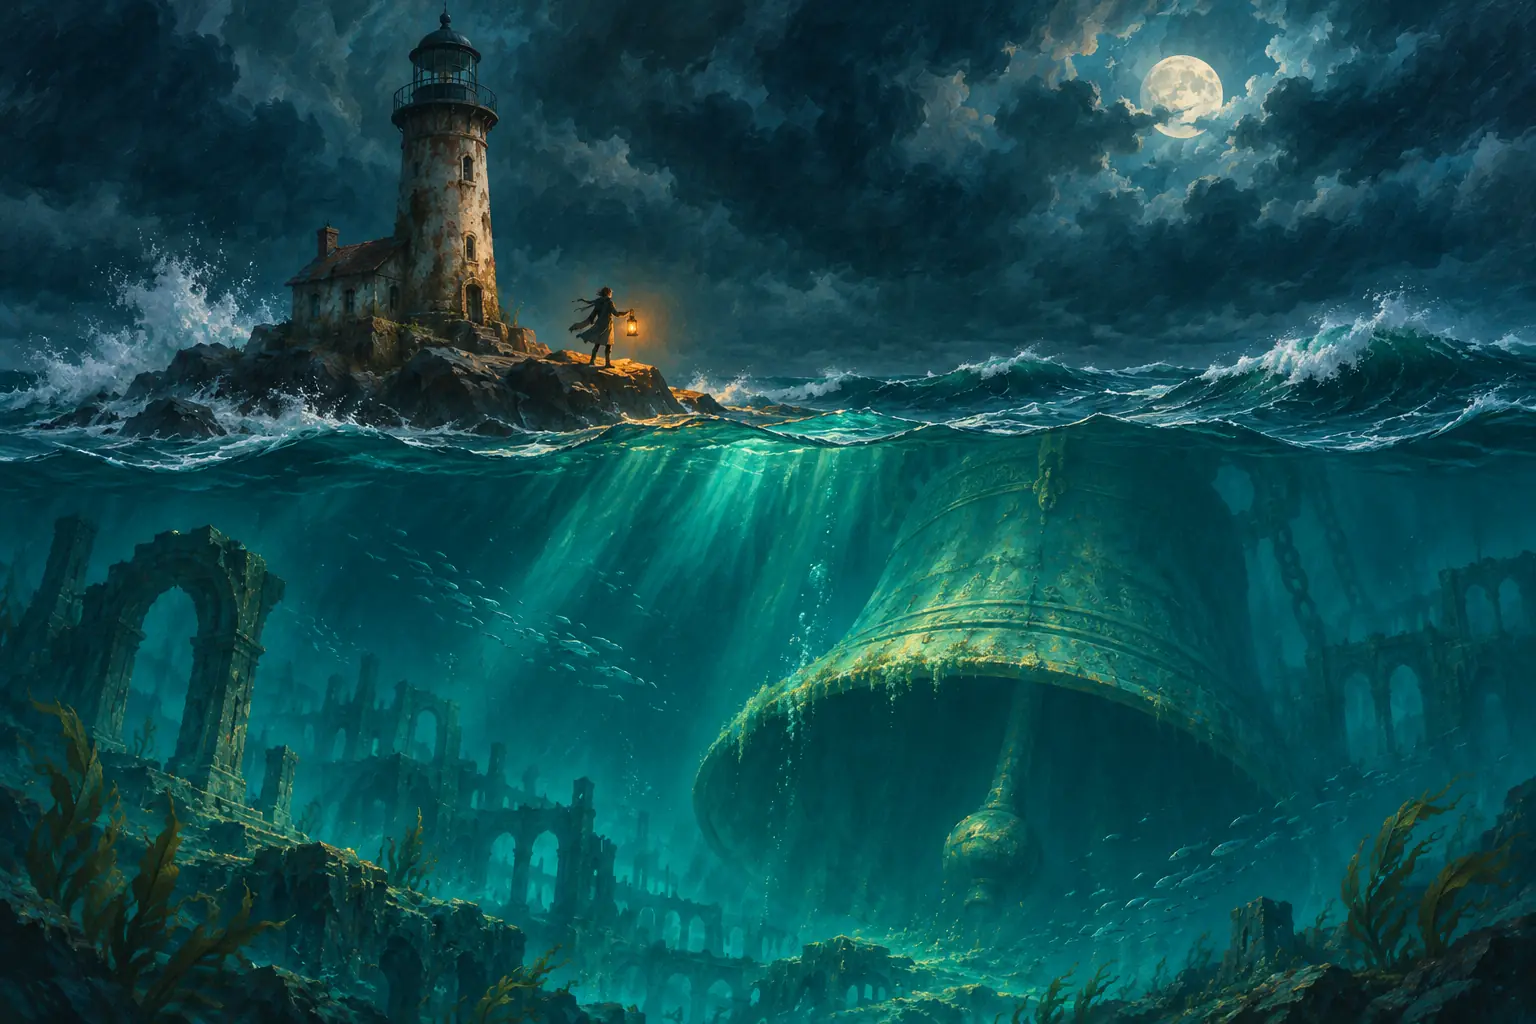
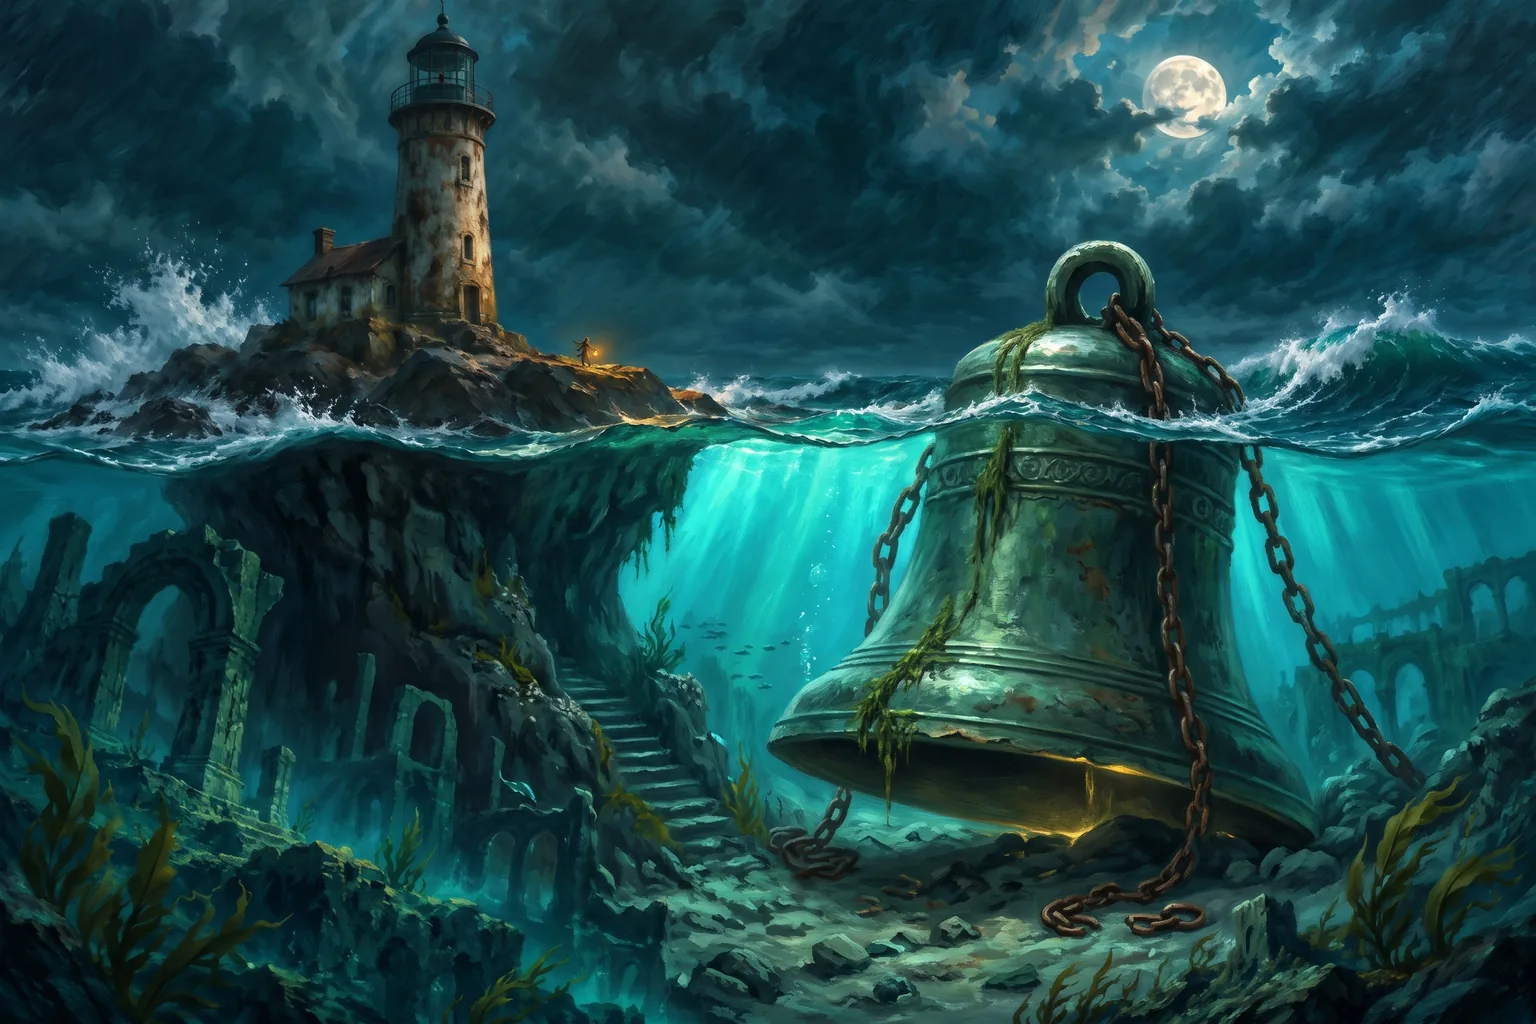
v0.37.1: a new title picture (the user's Gemini picture: the lighthouse on its rock, the stair down the rock under the sea, the great bell on the seabed with broken chains), and lit, a Codex edit with two opposite beams; credits and README name Gemini for it; the day's candidates noted in GAME_NOTES

diff --git a/js/version.js b/js/version.js
@@ -9,6 +9,7 @@
   BL.CHANGELOG = [
     { v: '0.37.1', date: '2026-11-16', items: [
       'The lighthouse stands on its own rock off Saltmere\'s harbour, as on the title screen. The opening\'s first picture is redrawn to show it, and its words say so.',
+      'A new title picture: the lighthouse on its rock, the stair down the rock under the sea, and the great bell on the seabed with its broken chains. Once the Heart is home, the lighthouse throws two beams.',
       'On a phone the title screen shows the lighthouse and the keeper. Before, it showed only the middle of the sea.',
     ] },
     { v: '0.37.0', date: '2026-11-16', items: [
@@ -314,9 +315,9 @@
     ] },
     { head: 'Made with', lines: [
       'Claude Code (Anthropic): the code, the rules, the story text, the music score, the sound effects, and the words and prompts for the songs.',
-      'Google Gemini: the songs, generated from those words and prompts.',
+      'Google Gemini: the songs, generated from those words and prompts, and the title picture.',
       'Grok (xAI, in the Cursor agent CLI), and Terra and Sol (OpenAI, in Codex): discussions of the world and its lore.',
-      'Codex (OpenAI): the pictures, which were then cropped, cleaned and recoloured.',
+      'Codex (OpenAI): the other pictures, which were then cropped, cleaned and recoloured, and the lit title picture, an edit of Gemini\'s.',
     ] },
     { head: 'Music', lines: [
       'The score is played by [musicbox](https://a403.space/musicbox/), a fork of [Scrimshaw Jukebox](https://tools.simonwillison.net/scrimshaw-jukebox) by Simon Willison. Its synthesizer comes from Scrimshaw, and the score is plain text in Scrimshaw\'s format. Apache License 2.0.',

diff --git a/README.md b/README.md
@@ -198,6 +198,6 @@ Sound effects and most of the music are synthesized at runtime with the Web Audi
 - Songs generated with Google Gemini (`music/songs/`) play in place of the score in Barnaby's shop (his two songs take turns, one each visit) and against the Harbour Hermit and the Drowned Bellwether (both its phases), and the Harbour Hermit has two: The Hermit's Heavy Toll at your first meeting, Ring for the Deep at your second, and one of the two at random after that, each for the whole fight; when one ends, it fades out slowly over its last 8 seconds and starts again from the top, fading in over 4 (the title screen goes on to its next song instead). The title screen plays its songs that are open in the Jukebox in turn, round and round: The Great Light Turning Slow, Harbour Bells at Dawn, The Hermit's Heavy Toll, Tide Swings Its Tongue and It Went Dark on My Watch, all from the start. Each page load starts on one of them at random (The Great Light Turning Slow until it has been heard once). High Tide Departure plays only in the Jukebox. While a song plays, the title screen shows its name at the top left, and tapping it opens the Jukebox. On the way down, a short note names each song as it starts. What you have heard is kept with the rest of your progress.
 - The sound effects are in `js/sfx.js`, and `sound/lab.html` plays each one. Sounds echo longer and are more muffled the deeper Wren goes. Each place has its own sounds every few seconds: gulls and a bell buoy in the Shallows, drips in Dark Water, bubbles and the bell's hum in the Belfry. They come less often in a fight and not at all in a pin.
 
-The illustrations were generated for this project with Codex (OpenAI). Some keepsake, tonic and newer card images are crops or recolors of those illustrations. The game was built with Claude Code (Anthropic), and the world and its lore were worked out in discussions with Grok (xAI, in the Cursor agent CLI) and with Terra and Sol (OpenAI, in Codex). The Credits screen says the same in the game.
+The illustrations were generated for this project with Codex (OpenAI), except the title picture, which was generated with Google Gemini (its lit version is a Codex edit of it). Some keepsake, tonic and newer card images are crops or recolors of those illustrations. The game was built with Claude Code (Anthropic), and the world and its lore were worked out in discussions with Grok (xAI, in the Cursor agent CLI) and with Terra and Sol (OpenAI, in Codex). The Credits screen says the same in the game.
 
 Working on the game? See [AGENTS.md](AGENTS.md) for commands and [GAME_NOTES.md](GAME_NOTES.md) for design notes.

diff --git a/GAME_NOTES.md b/GAME_NOTES.md
@@ -2286,5 +2286,6 @@ The user asked how more characters could be added, and wanted to judge the look 
 
 - The user asked whether the lonely lighthouse on the title (on a rock in the sea) clashed with the opening (on the headland in the town). They chose to move it: the opening's first picture is a Codex edit of the old one with the tower out on its own islet (`assets-src/scenes/op_lighthouse.png`; the old one is `op_lighthouse_headland.png`). The lore is in WORLD.md: a tidal islet, joined to the foreshore at low tide. The Shallows' fight picture still shows it at the end of the headland from far off; WORLD.md says that is how it looks from along the shore. Redraw it only if it bothers anyone.
 - On tall screens the title picture is cropped to a strip. It was centred, so a phone saw the sea and the bell's side and no lighthouse. Now `background-position: 22% center` there (the lighthouse and Wren; on the lit title the start of the beam). The opening's lighthouse moved right, so its tall-screen `pos` is 78% (was 36%), which centres the tower on a phone.
-- Title picture candidates from the same day are in `assets-src/bg/` (`bg_title_alt_*`, `bg_title_gemini*`). The user was not fully happy with any and may edit one by hand; the game still uses the original title and its lit version.
+- The title picture is new: the user's Gemini picture (`assets-src/bg/bg_title.png`, from `bg_title_gemini.jpg`, 2528x1696), scaled to 1536x1024 for the game. Its lit version is a Codex edit (`bg_title_lit.png`): the lamp lit with two opposite beams (the user asked whether two would be realistic: yes, a turning lens with panels on opposite sides throws two), warm cottage windows, gold on the rock and in the water under it. The old pair is `bg_title_v1.png` and `bg_title_lit_v1.png`.
+- How it got there: the user found the old title's Wren too tall and its bell cut off at the waterline. Codex tried a smaller bell (A, B), the big bell breaking the surface (C, D), the bell in a drowned tower (E, F), D realigned (G, H), the bell fully under water (I to L) and resting on the seabed (M, N), and D with rock under the islet (D2, D3). All are in `assets-src/bg/bg_title_alt_*`. The user liked D's feel best but was not fully happy with any; Gemini, from the agent's prompt, gave the one they kept. Lessons: Codex keeps widening or squashing a bell it is told to resize, and an edit asked to change one thing still repaints the rest a little, so paste the changed region back. A lit version with Saltmere's lights on the horizon (`bg_title_gemini_lit_village.png`) was tried and not chosen.
 

diff --git a/WORLD.md b/WORLD.md
@@ -109,6 +109,7 @@ The current game (v0.19.0) tells this story in a shorter shape: an expedition of
   - **In the game (v0.37.0):** the chapter *What stays below* tells the growing toward the keeper's lantern. The chapter *The Dark Watch* and a two-picture scene follow the first win against it: its lantern catches from Wren's lamp and it goes out like a pinched wick; she climbs home, turns the watch glass over and sleeps through to morning for the first time since that night. Its keeper's note ends: "The light went out on your watch. Down there, that grew a body." The game never says whether it was really there.
   - **In the game (v0.37.0):** the Drowned Cantor is a Dread of the dives after the Heart. Its note adds that Wren knows some of the choir's faces from the keepers' book, and wonders whether she brought them down with her. The Bell Yearling, the Listeners, the Glimmer Bladders and the Hollow Divers are met only after the Heart; their notes say so.
   - **In the game (v0.37.0):** once the Heart is home, the title screen shows the lighthouse lit, its beam over the sea, the sunken bell below as before.
+  - **In the game (v0.37.1, the user's choice of picture):** a new title picture, made with Gemini: the lighthouse on its islet with Wren small on the rock, the islet's rock going down under the sea with a stair cut into it, and the great bell standing on the seabed among ruins, broken chains hanging off it and coiled on the floor, its crown above the waves. It is a symbolic picture, not a map: the Bellwether really hangs in the Belfry, far below the cliffs. Lit (once the Heart is home), the lamp throws two beams, left and right, as a turning lens with panels on opposite sides does.
   - This also answers the two open questions below: the water and the ringers come back because the deep keeps growing toward each keeper's lantern, and the deep calls back fresh keepsakes and Minnows follow Roil because they answer the keeper's own light now, not the bell.
 - **Answered by the above (2026-11-16):** What restores the water and the ringers after the Bellwether is silenced, beyond what *What stays below* says. Their behaviour must support repeated play, but the larger cause can remain uncertain. Things gathering around the broken bell are a possibility, not a chosen set of enemies.
 - **Answered by the above (2026-11-16):** The existing explanations for fresh keepsakes being called back and Bell Minnows following Roil depend on the Bellwether. How those effects continue after its defeat needs to be settled alongside the later expeditions.
